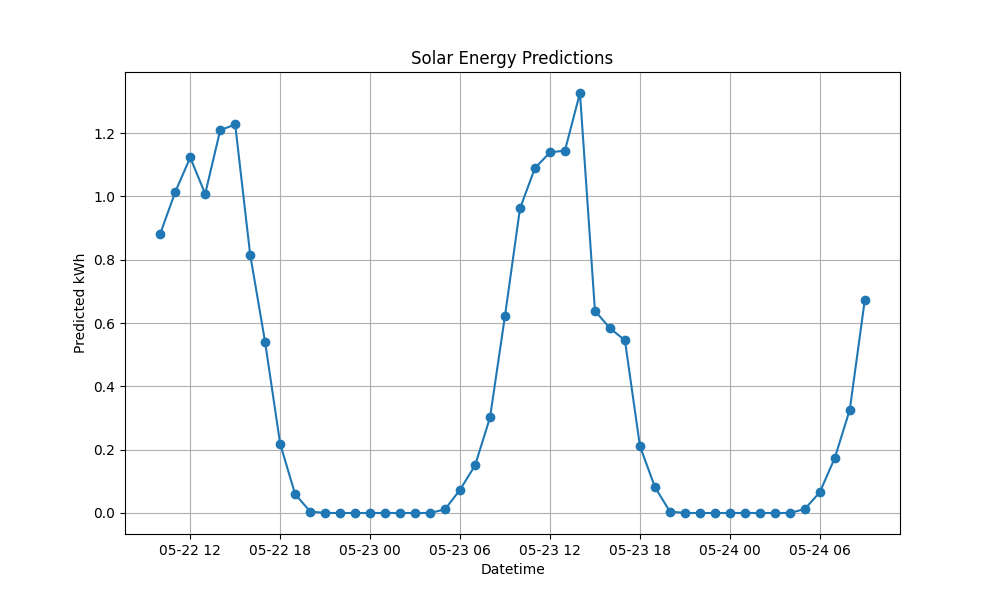
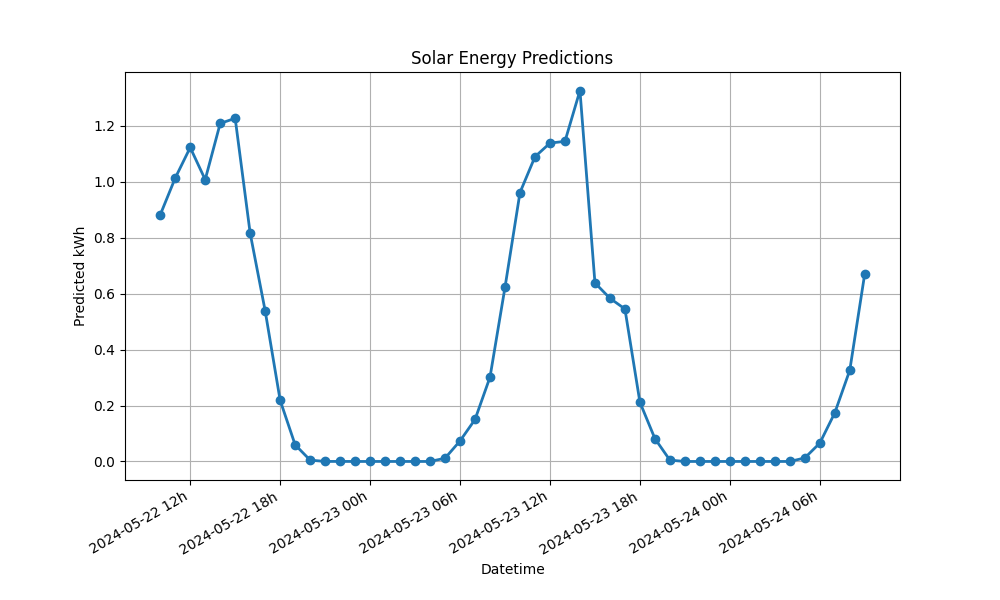
Update python script and image

diff --git a/140-project-solar-MatteoDeMoor.py b/140-project-solar-MatteoDeMoor.py
@@ -1,6 +1,7 @@
 import os
 import pandas as pd
 import matplotlib.pyplot as plt
+import matplotlib.dates as mdates
 from sklearn.metrics import mean_absolute_error
 from sklearn.model_selection import train_test_split
 import pickle
@@ -45,7 +46,7 @@ def toepassen_model(forecast, sunset, df):
     # Merge the forecast and sunset dataframes on the 'Datum' column
     forecast_merged = forecast.merge(sunset, on='Datum', how='left')
 
-    # Load and prepare the data
+    # Load and prepare the data for training
     X = df[['Uur', 'humidity_relative', 'cloudiness', 'temp', 'pressure', 'Opkomst', 'Ondergang']]
     y = df['kwh']
 
@@ -55,13 +56,9 @@ def toepassen_model(forecast, sunset, df):
     # Retrieve the model using the pickle module
     model = laden_model()
 
-    # Train the model
+    # Train the model and evaluate it
     model.fit(X_train, y_train)
-
-    # Make predictions
     y_pred = model.predict(X_test)
-
-    # Evaluate the model
     mae = mean_absolute_error(y_test, y_pred)
     print("Mean Absolute Error:", mae)
 
@@ -73,25 +70,28 @@ def toepassen_model(forecast, sunset, df):
     print("\nPredictions:")
     for prediction, date, hour in zip(y_forecast, forecast_merged['Datum'], forecast_merged['Uur']):
         formatted_date = pd.to_datetime(date).strftime('%Y-%m-%d')
-        print(f"Prediction for {formatted_date} at {hour} o'clock: {prediction:.2f} kWh")
+        print(f"Prediction for {formatted_date} at {hour}h: {prediction:.2f} kWh")
 
     # Create a datetime column for plotting
     forecast_merged['Datetime'] = pd.to_datetime(forecast_merged['Datum'].astype(str)) + pd.to_timedelta(forecast_merged['Uur'], unit='h')
 
-    # Plot the predictions
+    # Plot the predictions with improved formatting
     plt.figure(figsize=(10, 6))
-    plt.plot(forecast_merged['Datetime'], y_forecast, marker='o')
+    plt.plot(forecast_merged['Datetime'], y_forecast, marker='o', linestyle='-', linewidth=2)
     plt.xlabel("Datetime")
     plt.ylabel("Predicted kWh")
     plt.title("Solar Energy Predictions")
     plt.grid(True)
 
-    # Create 'img' directory if it doesn't exist
+    # Format x-axis so that the hour is displayed with 'h'
+    ax = plt.gca()
+    ax.xaxis.set_major_formatter(mdates.DateFormatter('%Y-%m-%d %Hh'))
+    plt.gcf().autofmt_xdate()  # Rotate date labels for better readability
+
+    # Create 'img' directory if it doesn't exist and save the plot
     base_path = os.path.dirname(os.path.abspath(__file__))
     img_dir = os.path.join(base_path, "img")
     os.makedirs(img_dir, exist_ok=True)
-    
-    # Save the plot in the 'img' folder
     img_path = os.path.join(img_dir, "predictions.png")
     plt.savefig(img_path)
     print(f"\nPlot saved to {img_path}")
